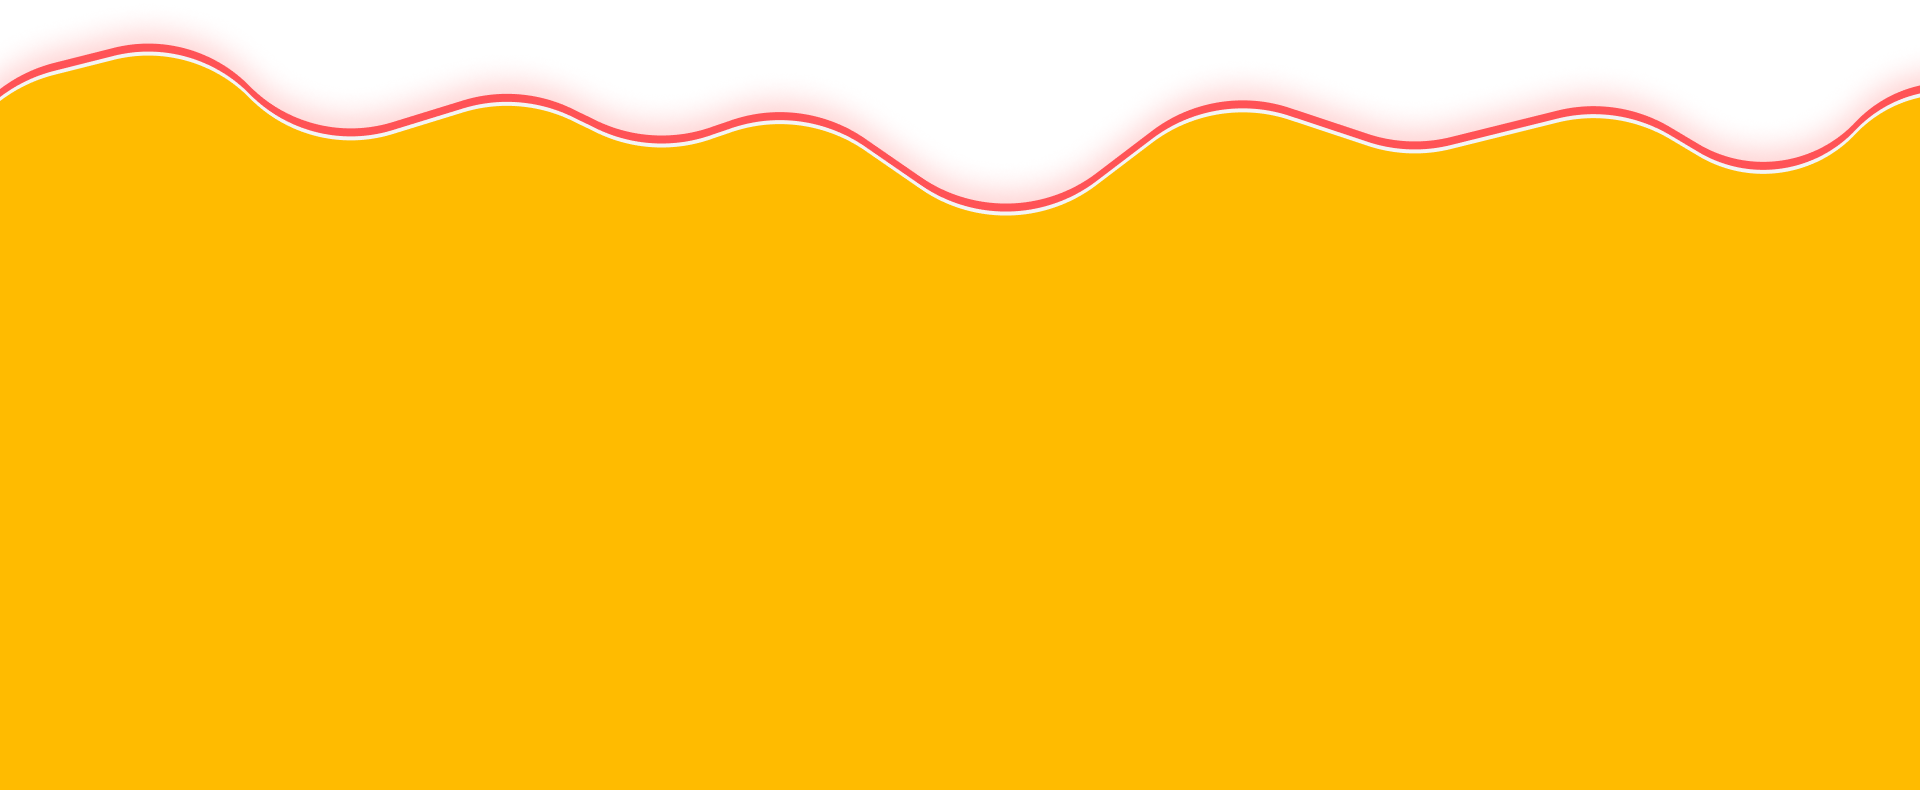
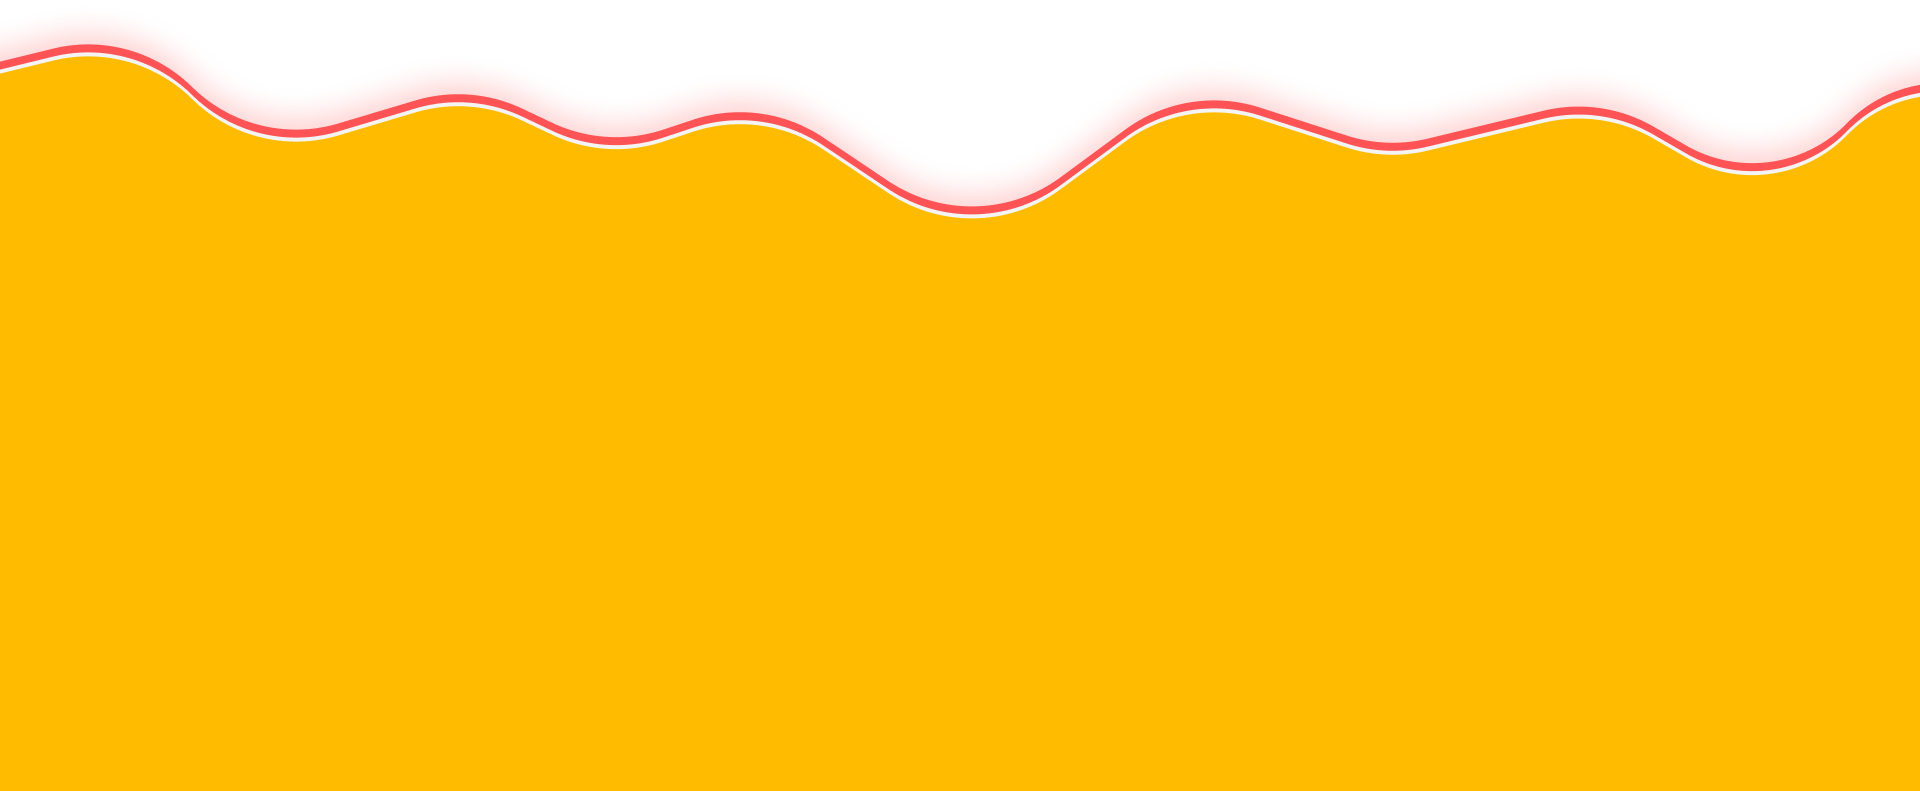
working on the footer

Changed region(s): [[0.0, 0.0304, 0.875, 0.2734], [0.875, 0.1519, 0.9688, 0.243], [0.9688, 0.1215, 1.0, 0.1519]]

diff --git a/index.html b/index.html
@@ -270,6 +270,41 @@
     </div>
     <!-- CTA CTA CTA CTA -->
 
-    <div class="null" style="margin-bottom: 500px"></div>
+    <!--Footer Footer Footer Footer Footer-->
+    <div class="footer">
+      <div class="wrapper">
+        <div class="background">
+          <img
+            src="./Footer/Bg_Footer.png"
+            width="1920"
+            height="791"
+            loading="lazy"
+          />
+        </div>
+        <div class="label">
+          <div class="Section_right">
+            <div class="logo">
+              <img src="./Footer/Footer_logo.png" loading="lazy" />
+            </div>
+            <p>
+              GoldenRings Bakery and its affiliated companies own the
+              trademarks, logos, and service marks showcased on this website.
+              Users are strictly prohibited from utilizing or reproducing these
+              intellectual properties without the explicit written permission of
+              GoldenRings Bakery or its affiliated parties.
+              <br />
+              All materials presented on this site are protected by copyright
+              law, and no part of such materials may be altered, reproduced,
+              stored in a retrieval system, transmitted (in any form or by any
+              means), copied, distributed, used for creating derivative works,
+              or employed in any other manner for commercial or public purposes
+              without the prior written consent of GoldenRings Bakery. Your
+              respect for our intellectual property rights is appreciated.
+            </p>
+          </div>
+        </div>
+      </div>
+    </div>
+    <!--Footer Footer Footer Footer Footer-->
   </body>
 </html>

diff --git a/main.scss b/main.scss
@@ -851,16 +851,16 @@ body {
         margin-bottom: 25px;
       }
     }
-	
-	.logoContainer {
-		display: flex;
-		flex-direction: row;
-		flex-wrap: wrap;
-		justify-content: center;
-		align-items: center;
-		gap: 20px;
-		max-width: 1460px;
-	}
+
+    .logoContainer {
+      display: flex;
+      flex-direction: row;
+      flex-wrap: wrap;
+      justify-content: center;
+      align-items: center;
+      gap: 20px;
+      max-width: 1460px;
+    }
   }
 }
 
@@ -941,6 +941,58 @@ body {
     }
     .donut1 {
       transform: translateX(100px) translateY(-210px);
+    }
+  }
+}
+
+.footer {
+  margin-top: 400px;
+
+  .wrapper {
+    display: grid;
+    grid-template-columns: 1fr;
+    justify-content: center;
+    align-items: center;
+
+    .label,
+    .background {
+      /*Centering the container*/
+      grid-area: 1/1;
+      justify-self: center;
+      align-self: center;
+      /*Centering the container*/
+    }
+
+    .label {
+      width: 1040px;
+      .Section_right {
+        .logo {
+          pointer-events: none;
+          user-select: none;
+        }
+        p {
+          width: 515px;
+
+          color: $Accent2;
+          text-align: justify;
+          font-family: $Inter;
+          font-size: 1.2rem;
+          font-style: normal;
+          font-weight: 300;
+          line-height: normal;
+        }
+      }
+    }
+
+    .background {
+      bottom: 0;
+      width: 100%;
+      img {
+        width: 100%;
+        display: block;
+        user-select: none;
+        pointer-events: none;
+      }
     }
   }
 }

diff --git a/main.css b/main.css
@@ -781,4 +781,49 @@ body {
   transform: translateX(100px) translateY(-210px);
 }
 
+.footer {
+  margin-top: 400px;
+}
+.footer .wrapper {
+  display: grid;
+  grid-template-columns: 1fr;
+  justify-content: center;
+  align-items: center;
+}
+.footer .wrapper .label,
+.footer .wrapper .background {
+  /*Centering the container*/
+  grid-area: 1/1;
+  justify-self: center;
+  align-self: center;
+  /*Centering the container*/
+}
+.footer .wrapper .label {
+  width: 1040px;
+}
+.footer .wrapper .label .Section_right .logo {
+  pointer-events: none;
+  user-select: none;
+}
+.footer .wrapper .label .Section_right p {
+  width: 515px;
+  color: #1e1e1e;
+  text-align: justify;
+  font-family: "Inter", sans-serif;
+  font-size: 1.2rem;
+  font-style: normal;
+  font-weight: 300;
+  line-height: normal;
+}
+.footer .wrapper .background {
+  bottom: 0;
+  width: 100%;
+}
+.footer .wrapper .background img {
+  width: 100%;
+  display: block;
+  user-select: none;
+  pointer-events: none;
+}
+
 /*# sourceMappingURL=main.css.map */
